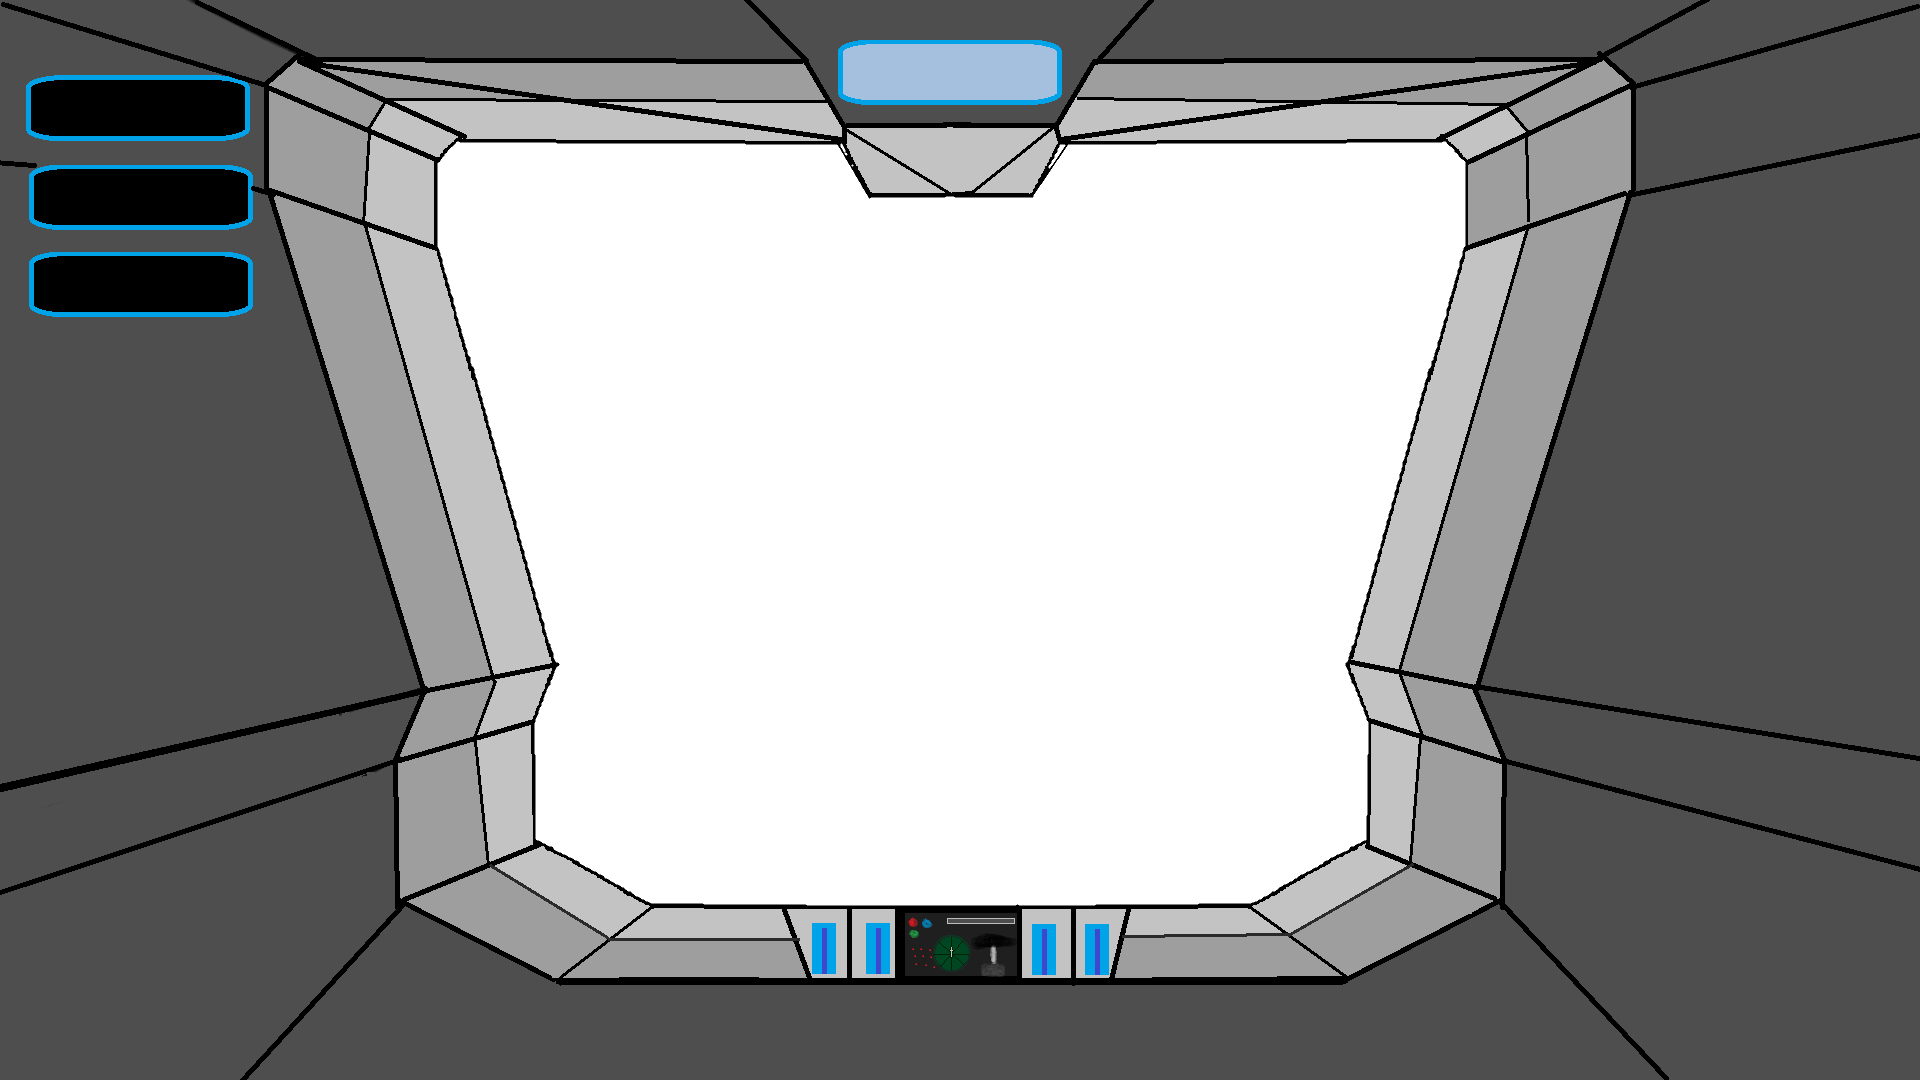
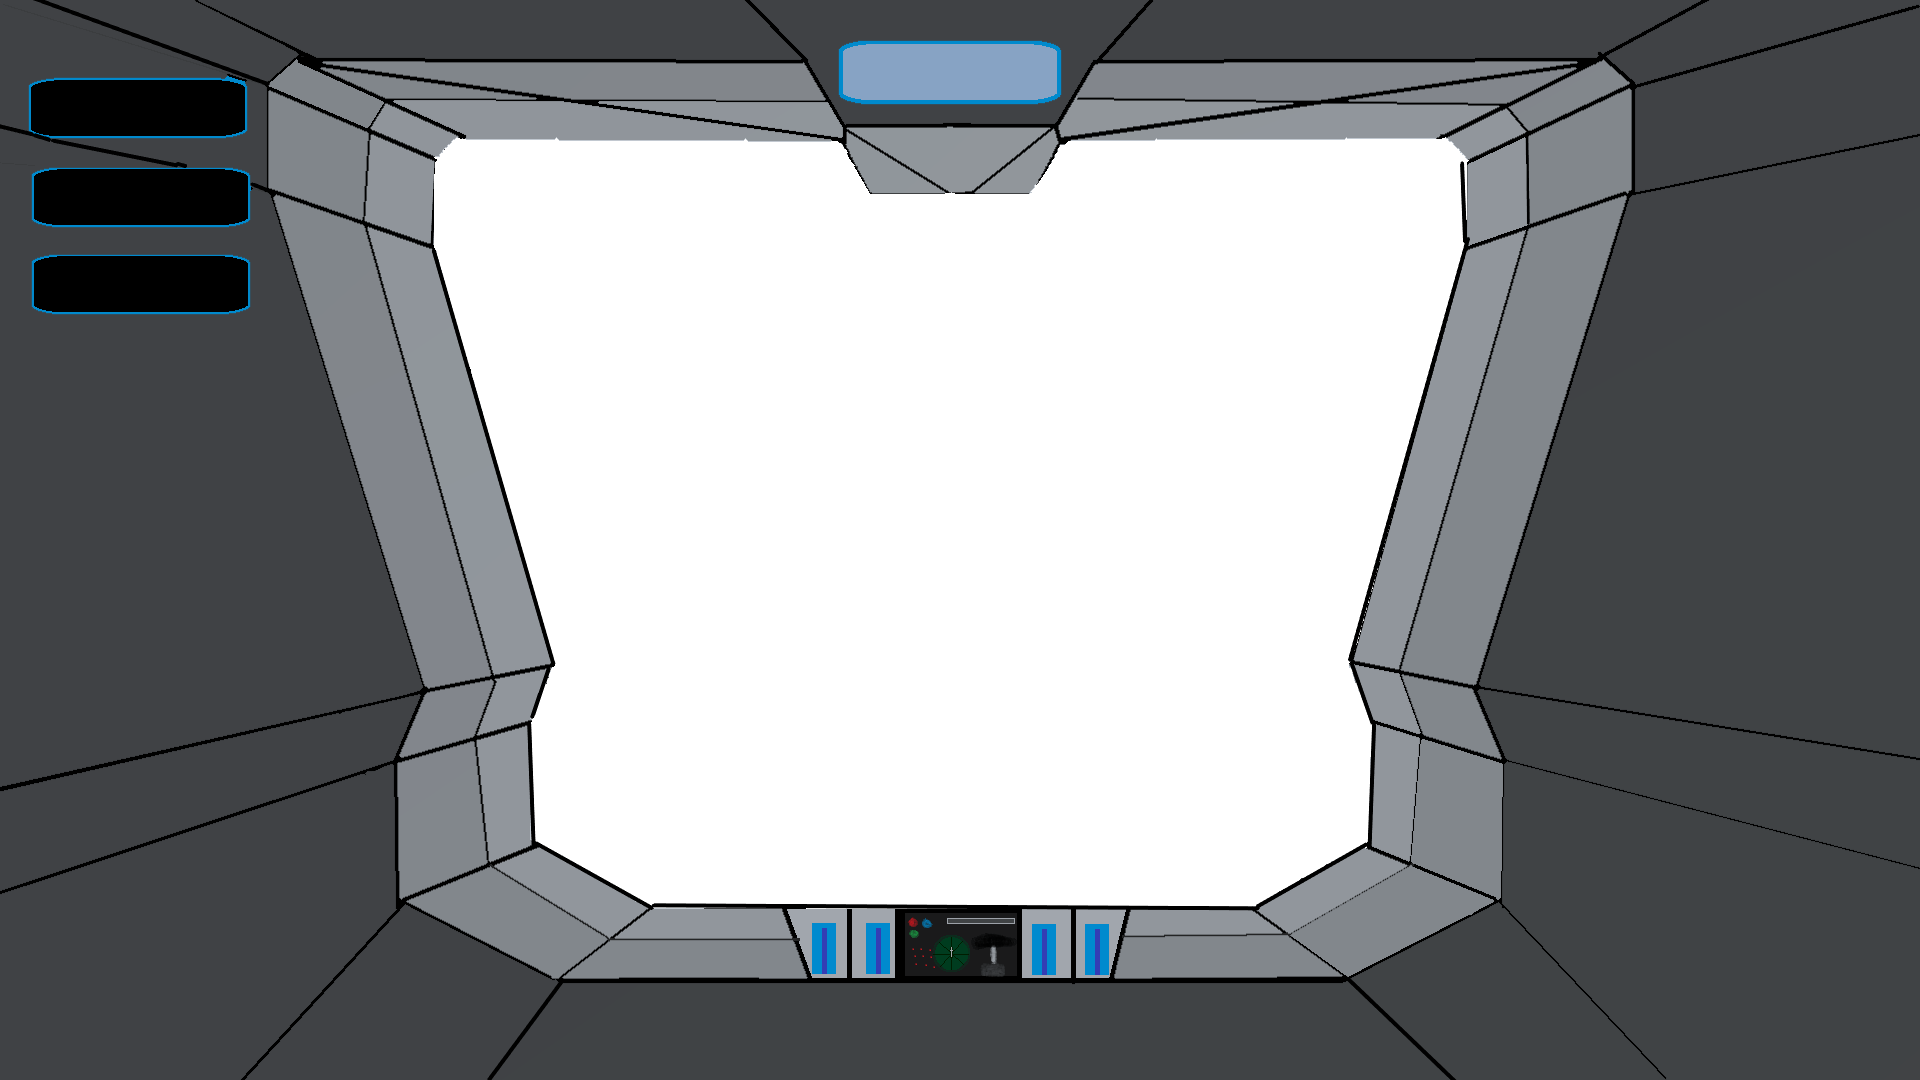
Viewport Coloring and Task Add Menu

diff --git a/src/components/AddTask.vue b/src/components/AddTask.vue
@@ -1,19 +1,21 @@
 <template>
-<form @submit="onSubmit" class="add-form">
-    <div class="form-control">
-        <label>Task</label>
-        <input type="text" v-model="text" name="text" placeholder="Add Task" />
-    </div>
-    <div class="form-control">
-        <label>Day & Time</label>
-        <input type="text" v-model="day" name="day" placeholder="Add Day & Time" />
-    </div>
-    <div class="form-control form-control-check">
-        <label>Set Reminder</label>
-        <input type="checkbox" v-model="reminder" name="reminder" />
-    </div>
-    <input type="submit" value="Save Task" class="btn btn-block" />
-</form>
+<div class = "formBox">
+    <form @submit="onSubmit" class="add-form">
+        <div class="form-control">
+            <label>Task</label>
+            <input type="text" v-model="text" name="text" placeholder="Add Task" />
+        </div>
+        <div class="form-control">
+            <label>Day & Time</label>
+            <input type="text" v-model="day" name="day" placeholder="Add Day & Time" />
+        </div>
+        <div class="form-control form-control-check">
+            <label>Set Reminder</label>
+            <input type="checkbox" v-model="reminder" name="reminder" />
+        </div>
+        <input type="submit" value="Save Task" class="btn btn-block" />
+    </form>
+</div>
 </template>
 
 <script>
@@ -52,10 +54,17 @@
 </script>
 
 <style scoped>
+    .formBox{
+        top: 5%;
+        left: 1%;
+        position: absolute;
+        padding: 10px;
+        background-color:rgb(0,162,232);;
+        border-radius: 10px;
+        
+    }
     .add-form {
-        width: 600px;
-
-        margin-bottom: 40px;
+        width: 550px;
         background-color: rgb(165, 192, 222);
         border-color: rgb(0,162,232);
         padding: 10px;

diff --git a/src/App.vue b/src/App.vue
@@ -46,7 +46,7 @@ export default {
   padding: 0px;
   box-sizing: border-box;
 }
-body, html{
+body {
   height:1080px;
   width:1920px;
   font-family: 'Poppins', sans-serif;
@@ -76,6 +76,11 @@ body, html{
 #app{
   z-index: 5;
   position: absolute;
+}
+
+.Youtube{
+  position:absolute;
+  z-index: 99;
 }
 
 .taskbar {
